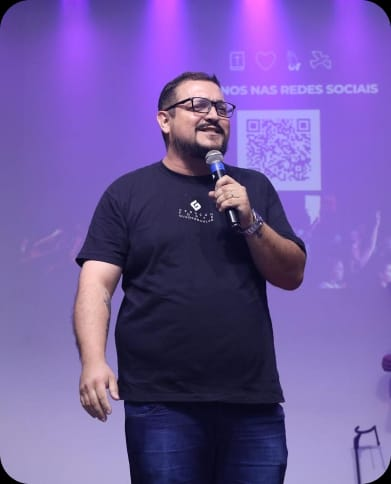
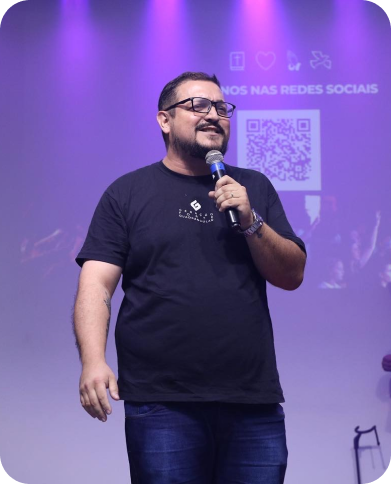
up

diff --git a/index.html b/index.html
@@ -210,7 +210,7 @@
 
       <div class="convidado2">
         <div class="img-convidados">
-          <img src="assents/convidados/AngelsCrew.jpg" alt="" />
+          <img src="assents/convidados/AngelsCrew.png" alt="" />
         </div>
 
         <div class="texto-convidados">
